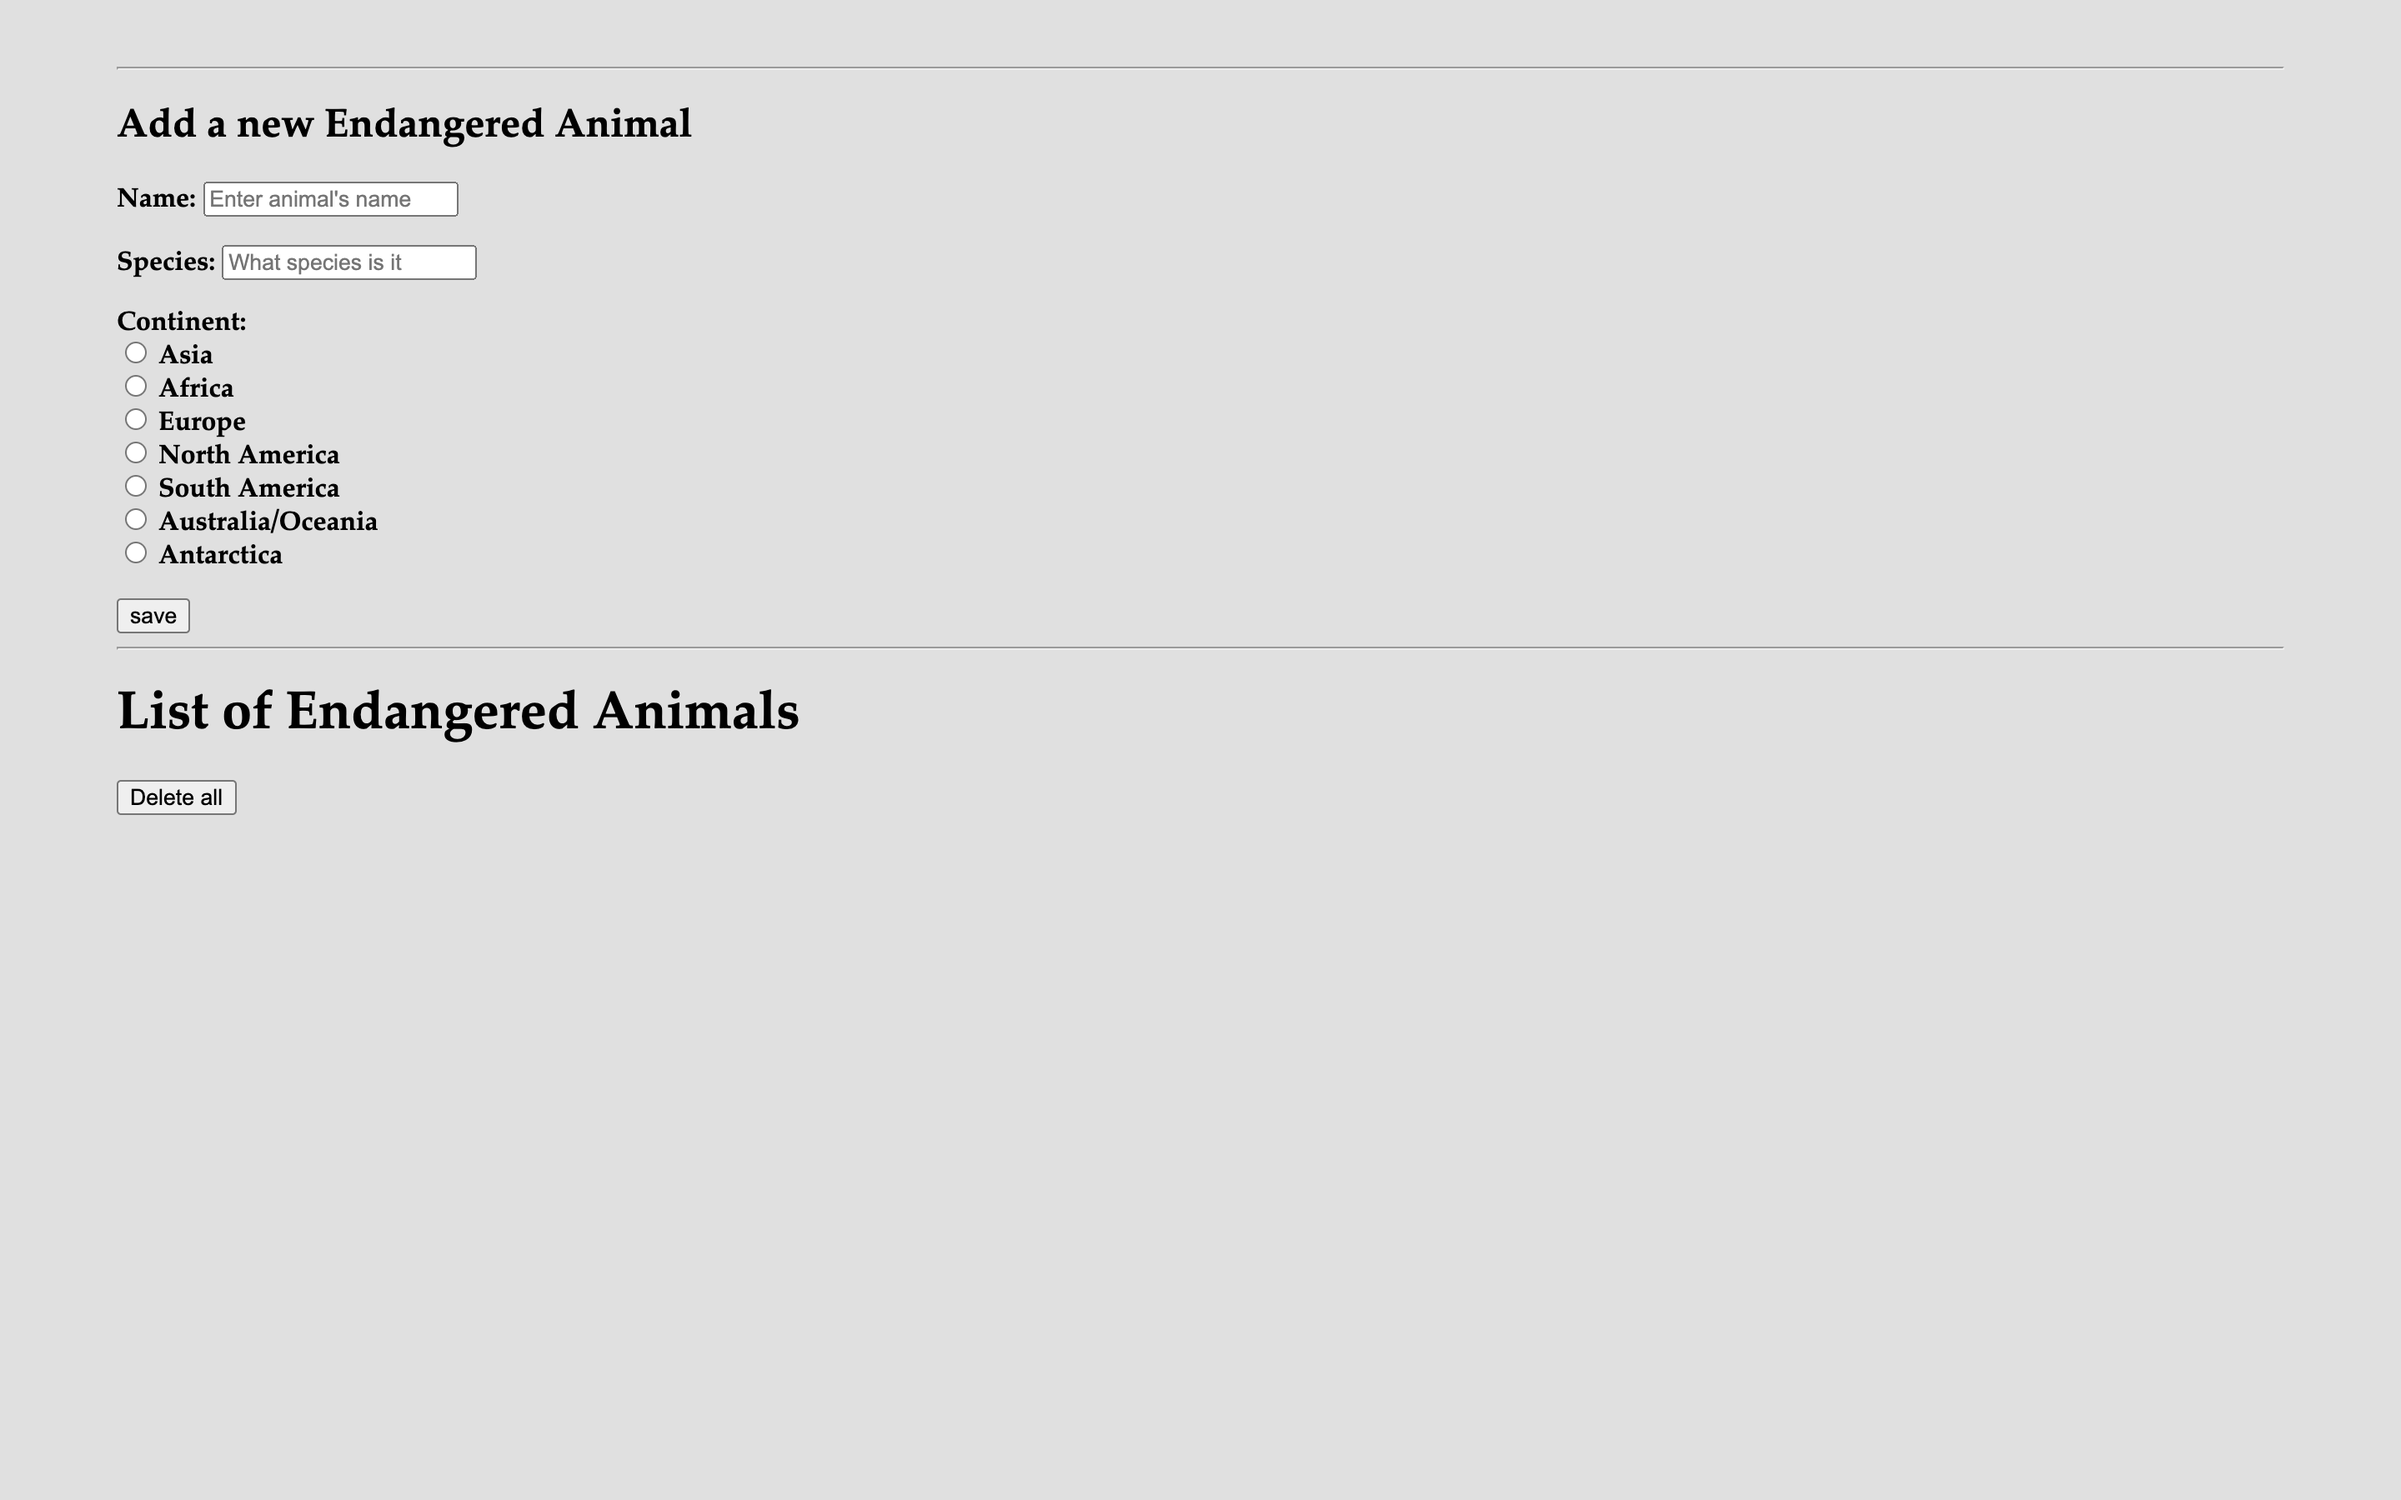
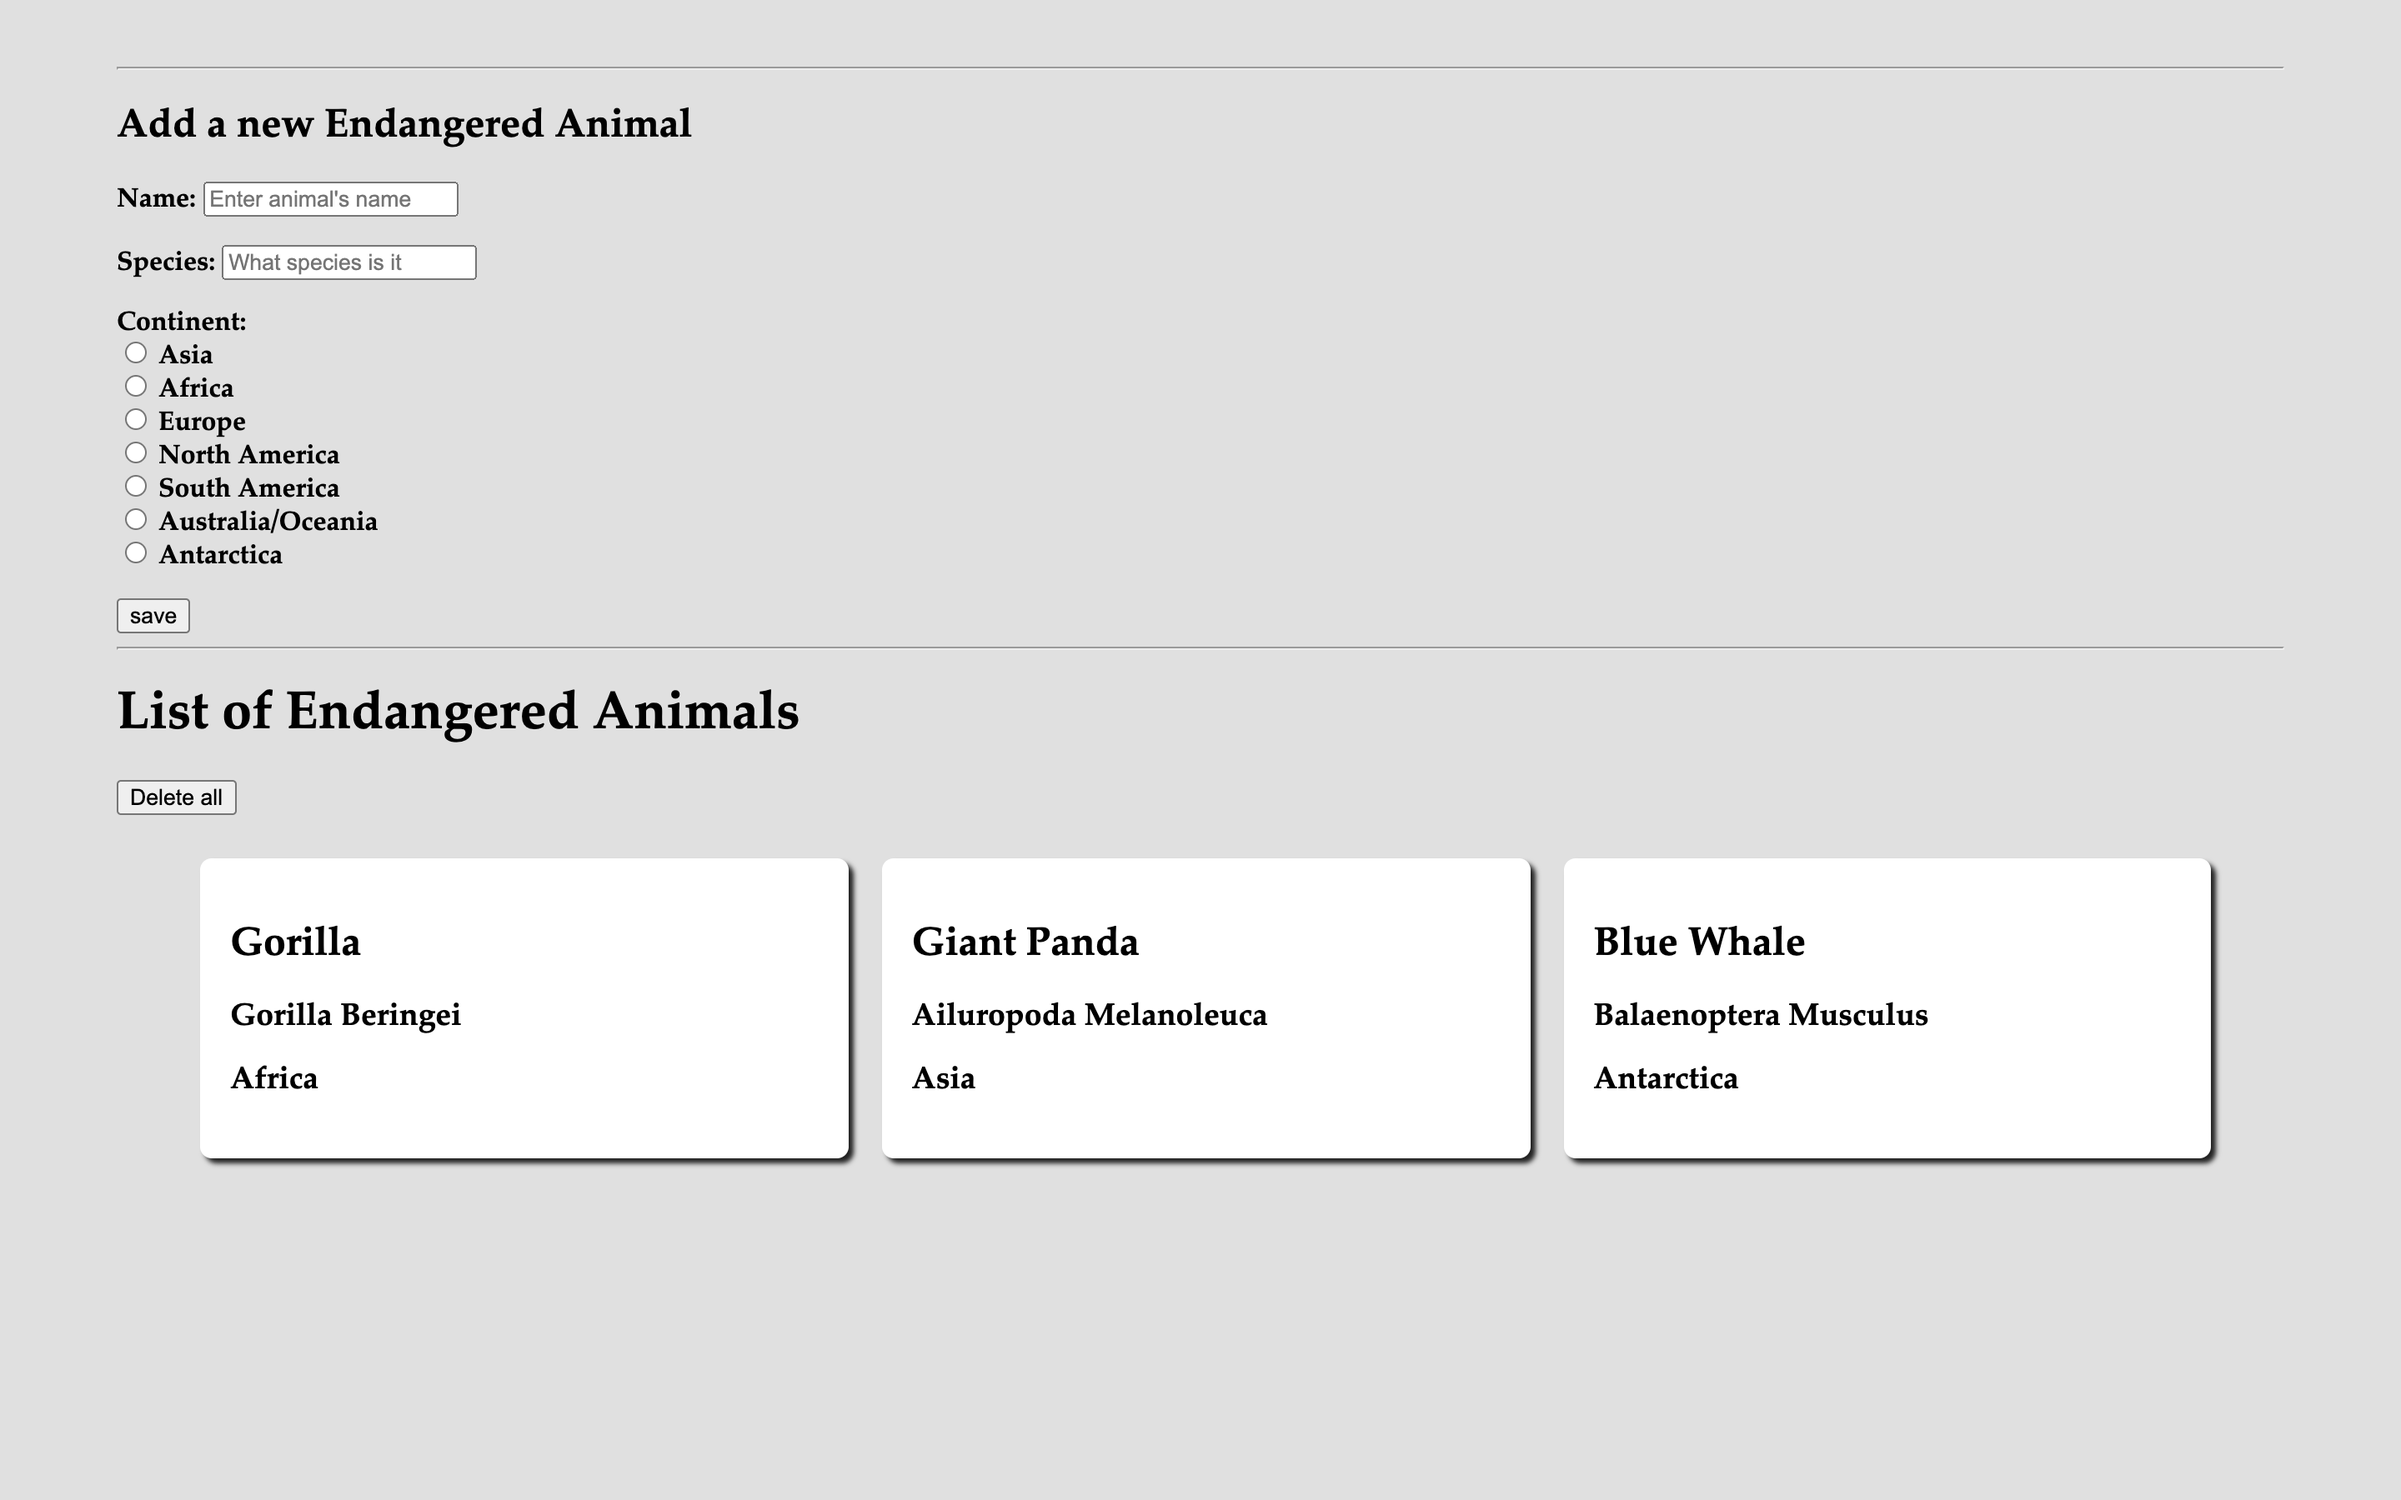
Render seed data and readme update

Changed region(s): [[0.0625, 0.56, 0.9375, 0.7778]]

diff --git a/js/app.js b/js/app.js
@@ -1,6 +1,12 @@
 document.addEventListener('DOMContentLoaded', () => {
     console.log('JavaScript loaded');
 
+    // For seed data
+    seedData.forEach((animal) => {
+        const li = createAnimalListItem(animal);
+        addListItem(li);
+    });
+
     // For submit/save form
     const formInput = document.querySelector('#new-animal-form');
     formInput.addEventListener('submit', handleFormSubmit);
@@ -10,20 +16,32 @@ document.addEventListener('DOMContentLoaded', () => {
 });
 
 
+// Seed data
+const seedData = [
+    {name: {value: 'Gorilla'}, species: {value: 'Gorilla Beringei'}, continent: {value: 'Africa'}},
+    {name: {value: 'Giant Panda'}, species: {value: 'Ailuropoda Melanoleuca'}, continent: {value: 'Asia'}},
+    {name: {value: 'Blue Whale'}, species: {value: 'Balaenoptera Musculus'}, continent: {value: 'Antartica'}}
+];
+
+// Adds item to the list
+const addListItem = function(listItem) {
+    const listContainer = document.querySelector('#animal-list');
+    listContainer.appendChild(listItem);
+};
+
 const handleFormSubmit = function(event) {
     event.preventDefault();
     const animalListItem = createAnimalListItem(event.target);
-    const animalList = document.querySelector('#animal-list');
-    animalList.appendChild(animalListItem);
+    addListItem(animalListItem);
     event.target.reset();
-}
+};
 
 // Create list of animals
 const createAnimalListItem = function(form) {
     const animalListItem = document.createElement('li');
     animalListItem.classList.add('animal-list-item');
 
-    const name = document.createElement('h3');
+    const name = document.createElement('h2');
     name.textContent = form.name.value;
     animalListItem.appendChild(name);
 
@@ -36,10 +54,10 @@ const createAnimalListItem = function(form) {
     animalListItem.appendChild(continent);
 
     return animalListItem;
-}
+};
 
 // Delete all the list
 const handleDeleteList = function(event) {
     const deleteList = document.querySelector('#animal-list');
     deleteList.innerHTML = '';
-}
+};

diff --git a/README.md b/README.md
@@ -6,6 +6,12 @@ JavaScript application that allows users to input items and see them displayed i
 Full homework brief</a>
 #
 
+## Loaded
 ![](screenshots/1.png)
+
+## After 'delete all' button has been clicked
 ![](screenshots/2.png)
+
+## Adding new animals to the list
 ![](screenshots/3.png)
+![](screenshots/4.png)
